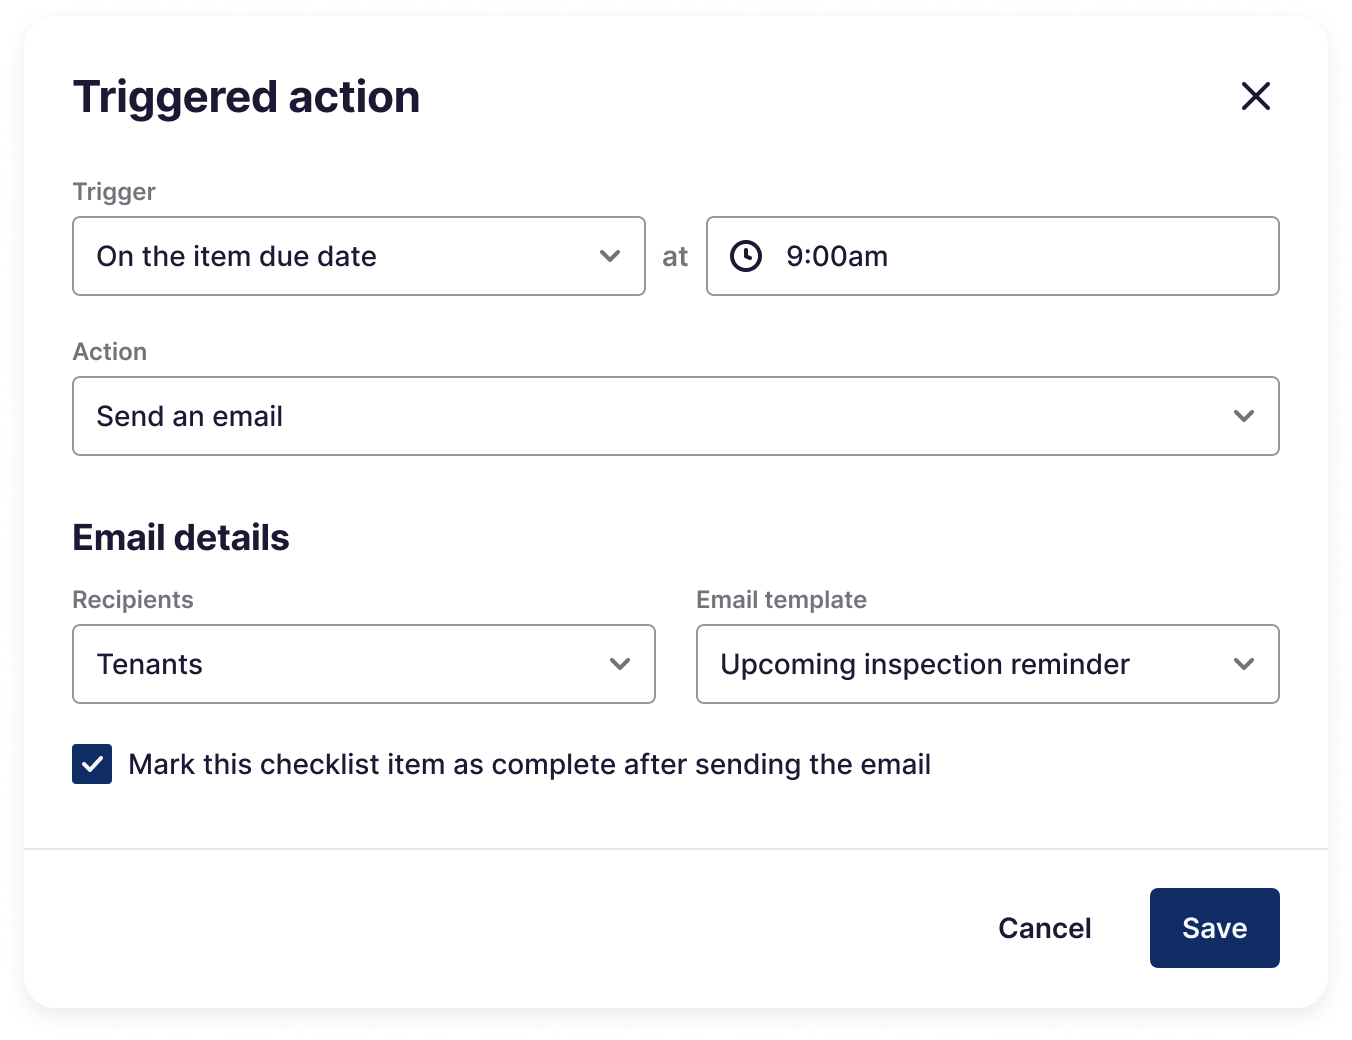
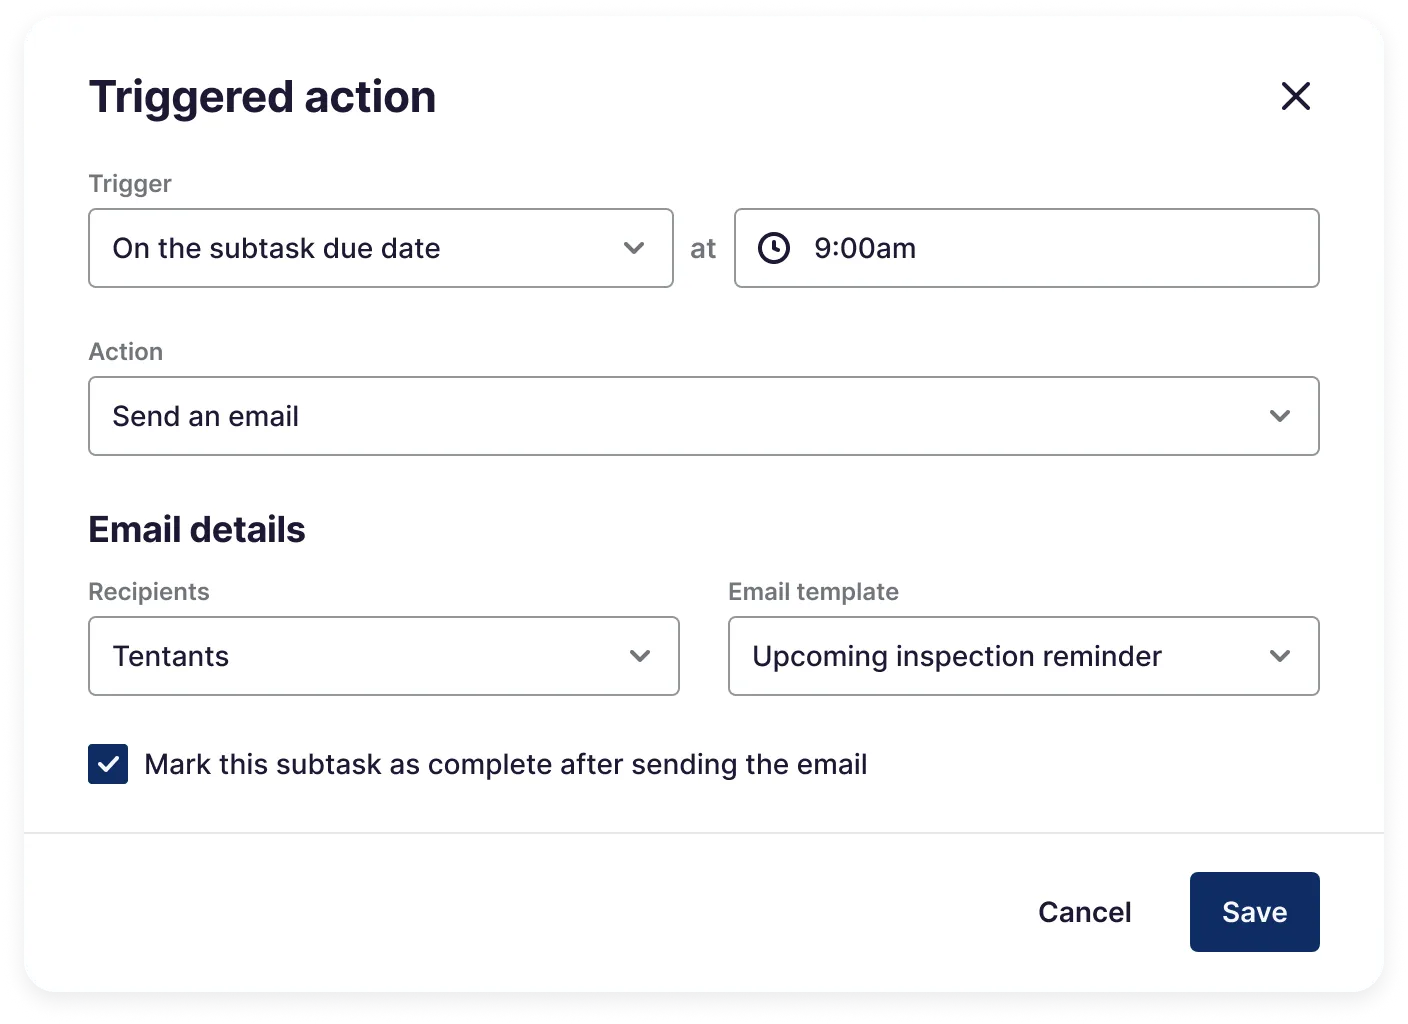
Image updates

diff --git a/process-engine/index.html b/process-engine/index.html
@@ -117,9 +117,9 @@
             <p>Processes can be a simple checklist, or include complex configurations involving branching paths and triggered actions</p>
           </figcaption>
         </figure>
-        <figure class="large half-tiles"><img src="/process-engine/process-checklist-dialog.webp" alt="A dialog showing the configuration of a subtask" class="transparent"><img src="/process-engine/process-action-dialog.webp" alt="A dialog showing the configuration of a triggered action" class="transparent">
+        <figure class="large half-tiles"><img src="/process-engine/process-subtask-dialog.webp" alt="A dialog showing the configuration of a subtask" class="transparent"><img src="/process-engine/process-action-dialog.webp" alt="A dialog showing the configuration of a triggered action" class="transparent">
           <figcaption>
-            <p>Subtasks can be due on dates relative to the task, and have predefined action shortcuts that the user can execute quickly. Or triggered actions can be used to completely automate the subtask.</p>
+            <p>Subtasks can be due on dates relative to the task, and have predefined outcomes allowing the process to continue down different paths. Triggered actions can be used to automate tasks like sending out templated emails.</p>
           </figcaption>
         </figure>
       </div>
